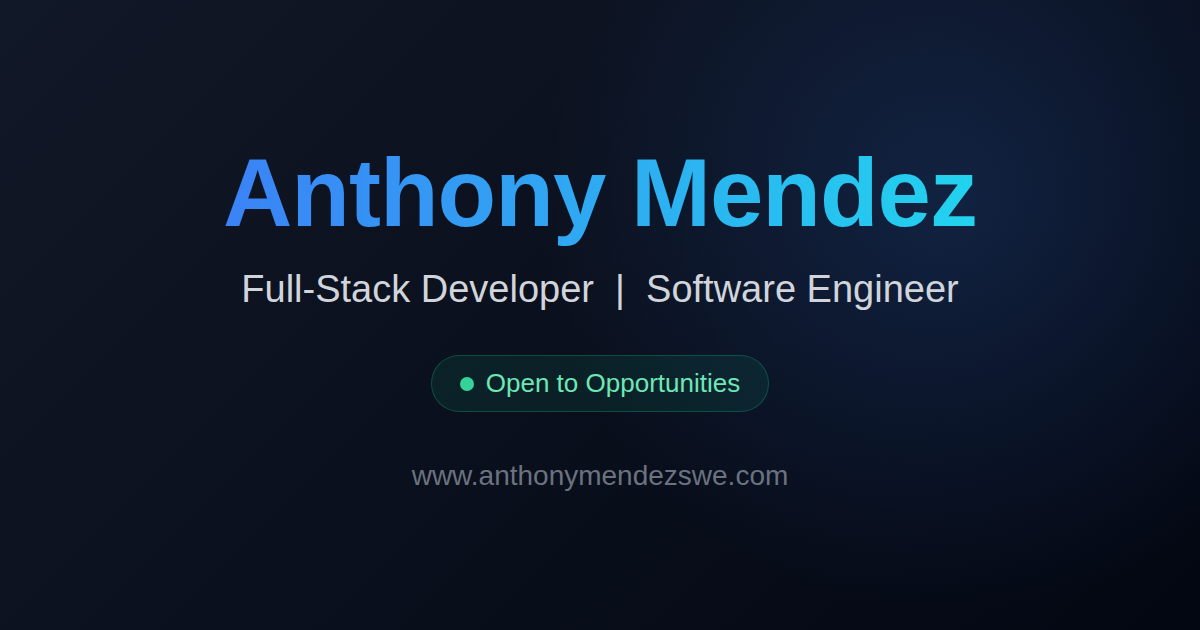
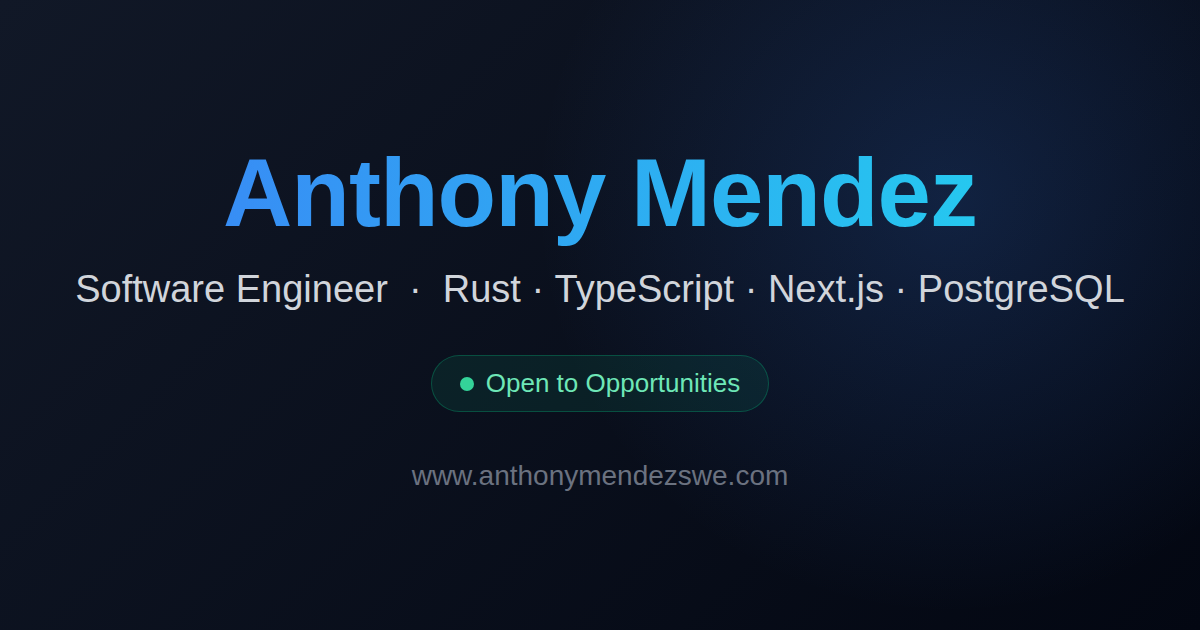
Sharpen hero title, honor reduced motion, and round out SEO polish
- Hero: 'Software Engineer' with a Rust / TypeScript / Next.js /
  PostgreSQL stack line replacing the doubled-up tagline; page title,
  description, and OG card updated to match; Rust added to skills
- Respect prefers-reduced-motion: static scroll arrow and status dot,
  videos stay on their poster frame, instant anchor scrolling
- Add JSON-LD Person schema linking the site to GitHub/LinkedIn
- Expand the one-line README with stack, highlights, and dev commands
- Add apple-touch icon, custom themed 404 page, and a client-rendered
  footer year so the static build never shows a stale year

Claude-Session: https://claude.ai/code/session_01AcaPJEuoKpwEmL758ASHvL

Changed region(s): [[0.0617, 0.4222, 0.925, 0.5127]]

diff --git a/src/app/layout.tsx b/src/app/layout.tsx
@@ -11,9 +11,8 @@ import { site } from "@/data/site";
 
 const inter = Inter({ subsets: ["latin"], variable: "--font-inter" });
 
-const title = "Anthony Mendez | Full-Stack Developer";
-const description =
-  "Portfolio of Anthony Mendez, a full-stack developer building efficient, user-centric web applications.";
+const title = `${site.name} | ${site.tagline}`;
+const description = `Portfolio of ${site.name}, a software engineer building full-stack web applications with ${site.stack.join(", ")}.`;
 
 export const metadata: Metadata = {
   metadataBase: new URL(site.url),
@@ -34,6 +33,18 @@ export const metadata: Metadata = {
   },
 };
 
+// Person schema so search engines connect the site to its owner and profiles.
+const jsonLd = {
+  "@context": "https://schema.org",
+  "@type": "Person",
+  name: site.name,
+  url: site.url,
+  email: `mailto:${site.email}`,
+  jobTitle: site.tagline,
+  knowsAbout: site.stack,
+  sameAs: [site.links.github, site.links.linkedin],
+};
+
 export default function RootLayout({
   children,
 }: {
@@ -42,6 +53,10 @@ export default function RootLayout({
   return (
     <html lang="en" className={`${inter.variable} font-sans`}>
       <body>
+        <script
+          type="application/ld+json"
+          dangerouslySetInnerHTML={{ __html: JSON.stringify(jsonLd) }}
+        />
         <Header />
         {children}
         <Footer />

diff --git a/src/app/components/Hero.tsx b/src/app/components/Hero.tsx
@@ -28,7 +28,10 @@ export default function Hero() {
         </h1>
 
         {/* Subtitle */}
-        <p className="text-xl md:text-2xl text-gray-300 mb-8">{site.tagline}</p>
+        <p className="text-xl md:text-2xl text-gray-300 mb-3">{site.tagline}</p>
+        <p className="text-base md:text-lg text-gray-400 mb-8">
+          {site.stack.join(" · ")}
+        </p>
 
         {/* CTA Buttons */}
         <div className="flex gap-4 justify-center">
@@ -51,7 +54,7 @@ export default function Hero() {
       {/* Scroll Down Arrow */}
       <a
         href="#projects"
-        className="absolute bottom-8 left-1/2 -translate-x-1/2 animate-bounce"
+        className="absolute bottom-8 left-1/2 -translate-x-1/2 animate-bounce motion-reduce:animate-none"
         aria-label="Scroll to projects"
       >
         <svg

diff --git a/src/app/not-found.tsx b/src/app/not-found.tsx
@@ -1,0 +1,21 @@
+import Link from "next/link";
+
+export default function NotFound() {
+  return (
+    <main className="min-h-[70vh] flex flex-col items-center justify-center text-center px-4">
+      <p className="text-6xl font-bold bg-clip-text text-transparent bg-gradient-to-r from-blue-500 to-cyan-400 mb-4">
+        404
+      </p>
+      <h1 className="text-2xl font-semibold text-gray-100 mb-2">Page not found</h1>
+      <p className="text-gray-400 mb-8">
+        The page you&rsquo;re looking for doesn&rsquo;t exist or has moved.
+      </p>
+      <Link
+        href="/"
+        className="px-6 py-3 bg-blue-600 hover:bg-blue-500 text-white rounded-lg transition-colors shadow-md"
+      >
+        Back to home
+      </Link>
+    </main>
+  );
+}

diff --git a/src/app/components/Availability.tsx b/src/app/components/Availability.tsx
@@ -10,7 +10,7 @@ export default function Availability() {
       <div className="max-w-4xl mx-auto relative">
         <div className="flex flex-col items-center text-center">
           <span className="mb-3 inline-flex items-center gap-2 rounded-full border border-emerald-600/40 bg-emerald-500/10 px-3 py-1 text-emerald-300">
-            <span className="h-2 w-2 rounded-full bg-emerald-400 animate-pulse" />
+            <span className="h-2 w-2 rounded-full bg-emerald-400 animate-pulse motion-reduce:animate-none" />
             Open to Opportunities
           </span>
 

diff --git a/src/data/skills.tsx b/src/data/skills.tsx
@@ -15,6 +15,7 @@ import {
   SiFastapi,
   SiPrisma,
   SiPytorch,
+  SiRust,
   SiJest,
   SiDocker,
   SiLinux,
@@ -42,6 +43,7 @@ export const skillsByCategory: SkillCategory[] = [
       { name: "JavaScript", icon: <SiJavascript className="text-yellow-400" /> },
       { name: "Python", icon: <SiPython className="text-blue-400" /> },
       { name: "C++", icon: <SiCplusplus className="text-blue-500" /> },
+      { name: "Rust", icon: <SiRust className="text-orange-500" /> },
       { name: "PyTorch", icon: <SiPytorch className="text-red-500" /> },
     ],
   },

diff --git a/src/app/components/Footer.tsx b/src/app/components/Footer.tsx
@@ -1,4 +1,5 @@
 import { site } from "@/data/site";
+import Year from "./Year";
 
 export default function Footer() {
   return (
@@ -43,7 +44,7 @@ export default function Footer() {
 
         {/* Copyright */}
         <div className="text-center text-sm text-gray-400">
-          <p>© {new Date().getFullYear()} {site.name}. All rights reserved.</p>
+          <p>© <Year /> {site.name}. All rights reserved.</p>
         </div>
       </div>
     </footer>

diff --git a/src/app/components/Year.tsx b/src/app/components/Year.tsx
@@ -1,0 +1,14 @@
+"use client";
+import { useEffect, useState } from "react";
+
+// The site is statically prerendered, so a server-rendered year would freeze
+// at build time; this corrects it on the client after hydration.
+export default function Year() {
+  const [year, setYear] = useState(() => new Date().getFullYear());
+
+  useEffect(() => {
+    setYear(new Date().getFullYear());
+  }, []);
+
+  return <>{year}</>;
+}

diff --git a/src/app/components/ProjectVideo.tsx b/src/app/components/ProjectVideo.tsx
@@ -16,6 +16,9 @@ export default function ProjectVideo({ videoBase, poster, alt }: Props) {
     const video = ref.current;
     if (!video) return;
 
+    // Respect the OS-level reduced-motion preference: leave the poster frame.
+    if (window.matchMedia("(prefers-reduced-motion: reduce)").matches) return;
+
     const observer = new IntersectionObserver(
       ([entry]) => {
         if (entry.isIntersecting) {

diff --git a/src/data/site.ts b/src/data/site.ts
@@ -1,7 +1,8 @@
 // Single source of truth for personal info and external links.
 export const site = {
   name: "Anthony Mendez",
-  tagline: "Full-Stack Developer | Software Engineer",
+  tagline: "Software Engineer",
+  stack: ["Rust", "TypeScript", "Next.js", "PostgreSQL"],
   url: "https://www.anthonymendezswe.com",
   email: "anthonymendez.dev@gmail.com",
   discordUsername: "@Antheagao",

diff --git a/src/app/globals.css b/src/app/globals.css
@@ -15,6 +15,12 @@ html {
   scroll-behavior: smooth;
 }
 
+@media (prefers-reduced-motion: reduce) {
+  html {
+    scroll-behavior: auto;
+  }
+}
+
 body {
   background: var(--background);
   color: var(--foreground);

diff --git a/README.md b/README.md
@@ -1,1 +1,30 @@
+# anthonymendezswe.com
+
+Personal portfolio of Anthony Mendez — Software Engineer.
+
 **Live site:** https://www.anthonymendezswe.com
+
+![Portfolio preview](public/og-image.png)
+
+## Tech stack
+
+- [Next.js 15](https://nextjs.org) (App Router, fully static prerender)
+- React 19 + TypeScript
+- Tailwind CSS v4
+- Deployed on Vercel with Analytics and Speed Insights
+
+## Highlights
+
+- All content lives in `src/data/` (projects, skills, personal info) — components only render, so content edits never touch JSX
+- Project demo videos lazy-play via `IntersectionObserver`, with generated poster frames, and stay paused for visitors who prefer reduced motion
+- Unified dark color system with WCAG AA contrast, visible keyboard focus states, and semantic accent colors
+- SEO: Open Graph card, JSON-LD `Person` schema, `sitemap.xml`, and `robots.txt`
+
+## Development
+
+```bash
+npm install
+npm run dev     # local dev server with Turbopack
+npm run build   # production build
+npm run lint    # ESLint
+```
